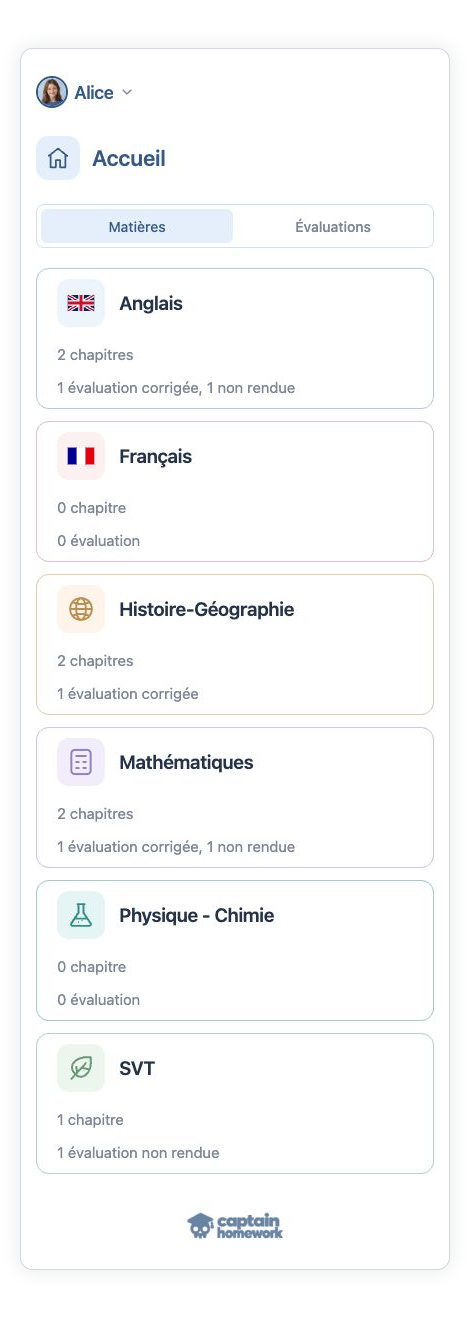
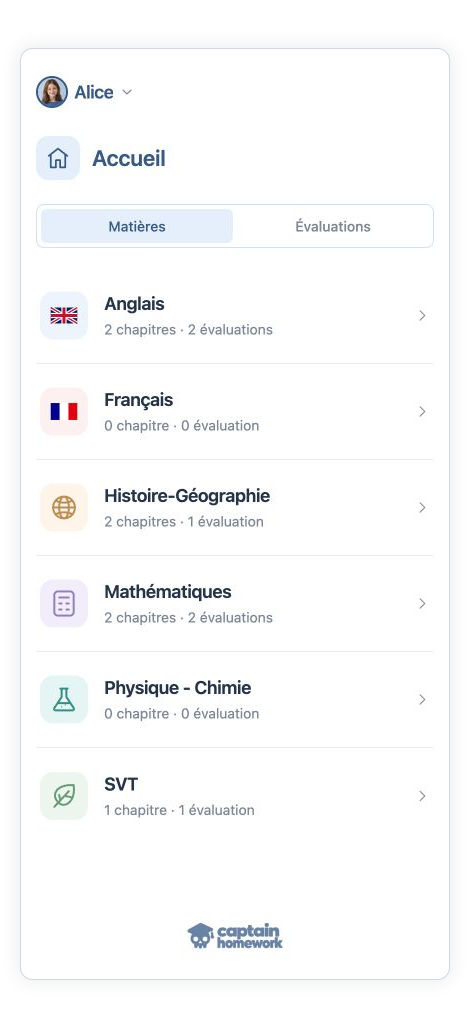
Refine mobile subject list and rename configuration page

diff --git a/assets/css/app.css b/assets/css/app.css
@@ -816,6 +816,12 @@ body:has(#flashcard-session) { position: fixed; inset: 0; }
 }
 .subjects-page-heading { flex-wrap: nowrap; align-items: center; }
 .subjects-page-heading > .settings-gear-button { width: 44px; }
+.configuration-button-label { display: none; }
+@media (width >= 1024px) {
+  .subjects-page-heading { margin-bottom: 44px; }
+  .subjects-page-heading > .settings-gear-button { flex-basis: auto; width: auto; padding-inline: 14px; }
+  .configuration-button-label { display: inline; }
+}
 .home-dashboard { display: grid; grid-template-columns: minmax(0, 2fr) minmax(0, 1fr); align-items: start; gap: 40px; }
 .home-dashboard > section { min-width: 0; }
 .home-section-title { margin: 0 0 20px; font-size: 18px; color: var(--day-ink); }
@@ -828,6 +834,7 @@ body:has(#flashcard-session) { position: fixed; inset: 0; }
 #home-subject-grid .subject-card-heading h2 { min-width: 0; font-size: 19px; overflow-wrap: anywhere; }
 #home-subject-grid .subject-copy { display: grid; gap: 10px; margin-top: 16px; }
 #home-subject-grid .subject-copy span { font-size: 15px; line-height: 1.5; }
+#home-subject-grid :is(.subject-mobile-summary, .subject-mobile-arrow) { display: none; }
 .home-exam-list { display: grid; gap: 32px; }
 .home-exam-card { position: relative; display: block; min-width: 0; padding: 0 0 0 44px; border-radius: 8px; transition: background-color .15s, box-shadow .15s; }
 .home-exam-card:hover { background: #f3f4f6; box-shadow: 0 0 0 8px #f3f4f6; }
@@ -851,6 +858,17 @@ body:has(#flashcard-session) { position: fixed; inset: 0; }
 .home-exams-more { width: 100%; margin-top: 28px; color: var(--day-ink); border-color: var(--day-line); }
 @media (width < 1024px) {
   .home-dashboard { grid-template-columns: minmax(0, 1fr); gap: 20px; }
+  #home-subject-grid { grid-template-columns: minmax(0, 1fr); gap: 0; }
+  #home-subject-grid .subject-card { display: grid; grid-template-columns: 48px minmax(0, 1fr) 16px; grid-template-rows: auto auto; column-gap: 16px; row-gap: 4px; align-items: center; min-height: 96px; padding: 20px 4px; border: 0; border-bottom: 1px solid var(--line); border-radius: 0; }
+  #home-subject-grid .subject-card:last-child { border-bottom: 0; }
+  #home-subject-grid .subject-card { transition: none; }
+  #home-subject-grid .subject-card:is(:hover, :focus-visible) { transform: none; box-shadow: none; background-color: var(--surface-background); }
+  #home-subject-grid .subject-card-heading { display: contents; }
+  #home-subject-grid .subject-card-heading .icon-tile { grid-column: 1; grid-row: 1 / 3; width: 48px; height: 48px; border-radius: 13px; }
+  #home-subject-grid .subject-card-heading h2 { grid-column: 2; grid-row: 1; align-self: end; margin: 0; font-size: 18px; line-height: 1.3; }
+  #home-subject-grid .subject-copy { display: none; }
+  #home-subject-grid .subject-mobile-summary { display: block; grid-column: 2; grid-row: 2; align-self: start; color: var(--muted); font-size: 14px; line-height: 1.4; }
+  #home-subject-grid .subject-mobile-arrow { display: block; grid-column: 3; grid-row: 1 / 3; width: 16px; height: 16px; color: var(--muted); }
   .home-section-title { position: absolute; width: 1px; height: 1px; padding: 0; margin: -1px; overflow: hidden; clip-path: inset(50%); white-space: nowrap; border: 0; }
   #home-subnav { display: flex; gap: 4px; padding: 4px; border: 1px solid var(--day-line); border-radius: 8px; background: var(--surface-background); }
   #home-subnav button { flex: 1; min-height: 34px; padding: 5px 8px; border: 0; border-radius: 6px; background: transparent; color: var(--muted); font-size: 14px; font-weight: 500; }
@@ -918,7 +936,6 @@ body:has(#flashcard-session) { position: fixed; inset: 0; }
 .ordering-actions button:disabled { opacity: .45; }
 
 #extract-illustrations-modal .modal-panel { width: min(100%, 1040px); }
-#extract-illustrations-modal-title { font-size: 21px; }
 @media (min-width: 601px) {
   #preview-extraction-source { height: clamp(320px, 60dvh, 600px); border-radius: 10px; }
   #extraction-source-image { max-height: none; }
@@ -1347,3 +1364,9 @@ button.text-button:focus-visible {
 .learning-page-illustrations > .section-heading { margin: 0 0 16px; }
 #page-illustrations:not(:has(.page-card)) { display: none; }
 #page-illustrations:not(:has(.page-card)) + .illustration-extraction-placeholder { margin-top: 0; }
+
+.contestation-actions { display: flex; justify-content: flex-end; }
+h2.modal-title { color: var(--day-ink, var(--primary)); font-size: 21px; }
+#submit-contestation .spinner { display: none; border-color: color-mix(in srgb, currentColor 30%, transparent); border-top-color: currentColor; }
+#submit-contestation[aria-busy="true"] .spinner,
+#contestation-form.phx-submit-loading #submit-contestation .spinner { display: inline-block; }

diff --git a/screenshots/README.md b/screenshots/README.md
@@ -31,4 +31,4 @@ Ces trois vues proviennent de l’interface réelle dans une copie isolée et vi
 
 Capture complémentaire du 17 novembre 2026 : `desktop-accueil.png`, placée en tête du README. Accueil desktop en 1440 × 1100, connecté avec le compte enfant fictif Alice (6B, collège Jules Ferry), portrait et thème bleu. La capture provient d’une copie isolée de la base et des fichiers de démonstration, complétée par des chapitres et six évaluations anonymisées avec des états enregistrés (à commencer, à reprendre et corrigées), sans appel IA. Les données d’origine restent inchangées.
 
-Capture mobile complémentaire du 17 novembre 2026 : `mobile-accueil.png`, placée en première position dans la sélection mobile du README. Même environnement isolé et même compte enfant Alice que la capture desktop ; seul l’onglet « Matières » est affiché. Viewport de 430 × 932, capture pleine page de 430 × 1222 pour conserver les six matières et le pied de page. Aucun appel IA.
+Capture mobile complémentaire du 17 novembre 2026 : `mobile-accueil.png`, placée en première position dans la sélection mobile du README. Même environnement isolé et même compte enfant Alice que la capture desktop ; seul l’onglet « Matières » est affiché. Capture de 430 × 932 (470 × 1028 avec le cadre), au même format que les trois autres vues mobiles. Elle montre les six matières en liste compacte, avec les compteurs regroupés et sans effet de survol. Aucun appel IA.

diff --git a/README.md b/README.md
@@ -57,7 +57,7 @@ Captures de l’interface avec un seul profil fictif, Alice, et des données ano
 ### Mobile
 
 <p>
-  <img src="screenshots/alice/mobile-accueil.png" alt="Accueil d’Alice sur mobile : onglet Matières" width="20.63%" /><img src="screenshots/alice/mobile-creation-controle.png" alt="Création d’un contrôle classique de maths" width="26.45%" /><img src="screenshots/alice/mobile-generation-detaillee.png" alt="Génération détaillée de cinq questions — état de démonstration" width="26.45%" /><img src="screenshots/alice/mobile-flashcard-anglais.png" alt="Contrôle d’anglais en Flash cards avec compréhension orale" width="26.45%" />
+  <img src="screenshots/alice/mobile-accueil.png" alt="Accueil d’Alice sur mobile : onglet Matières" width="25%" /><img src="screenshots/alice/mobile-creation-controle.png" alt="Création d’un contrôle classique de maths" width="25%" /><img src="screenshots/alice/mobile-generation-detaillee.png" alt="Génération détaillée de cinq questions — état de démonstration" width="25%" /><img src="screenshots/alice/mobile-flashcard-anglais.png" alt="Contrôle d’anglais en Flash cards avec compréhension orale" width="25%" />
 </p>
 
 ## Lancer le projet en local
